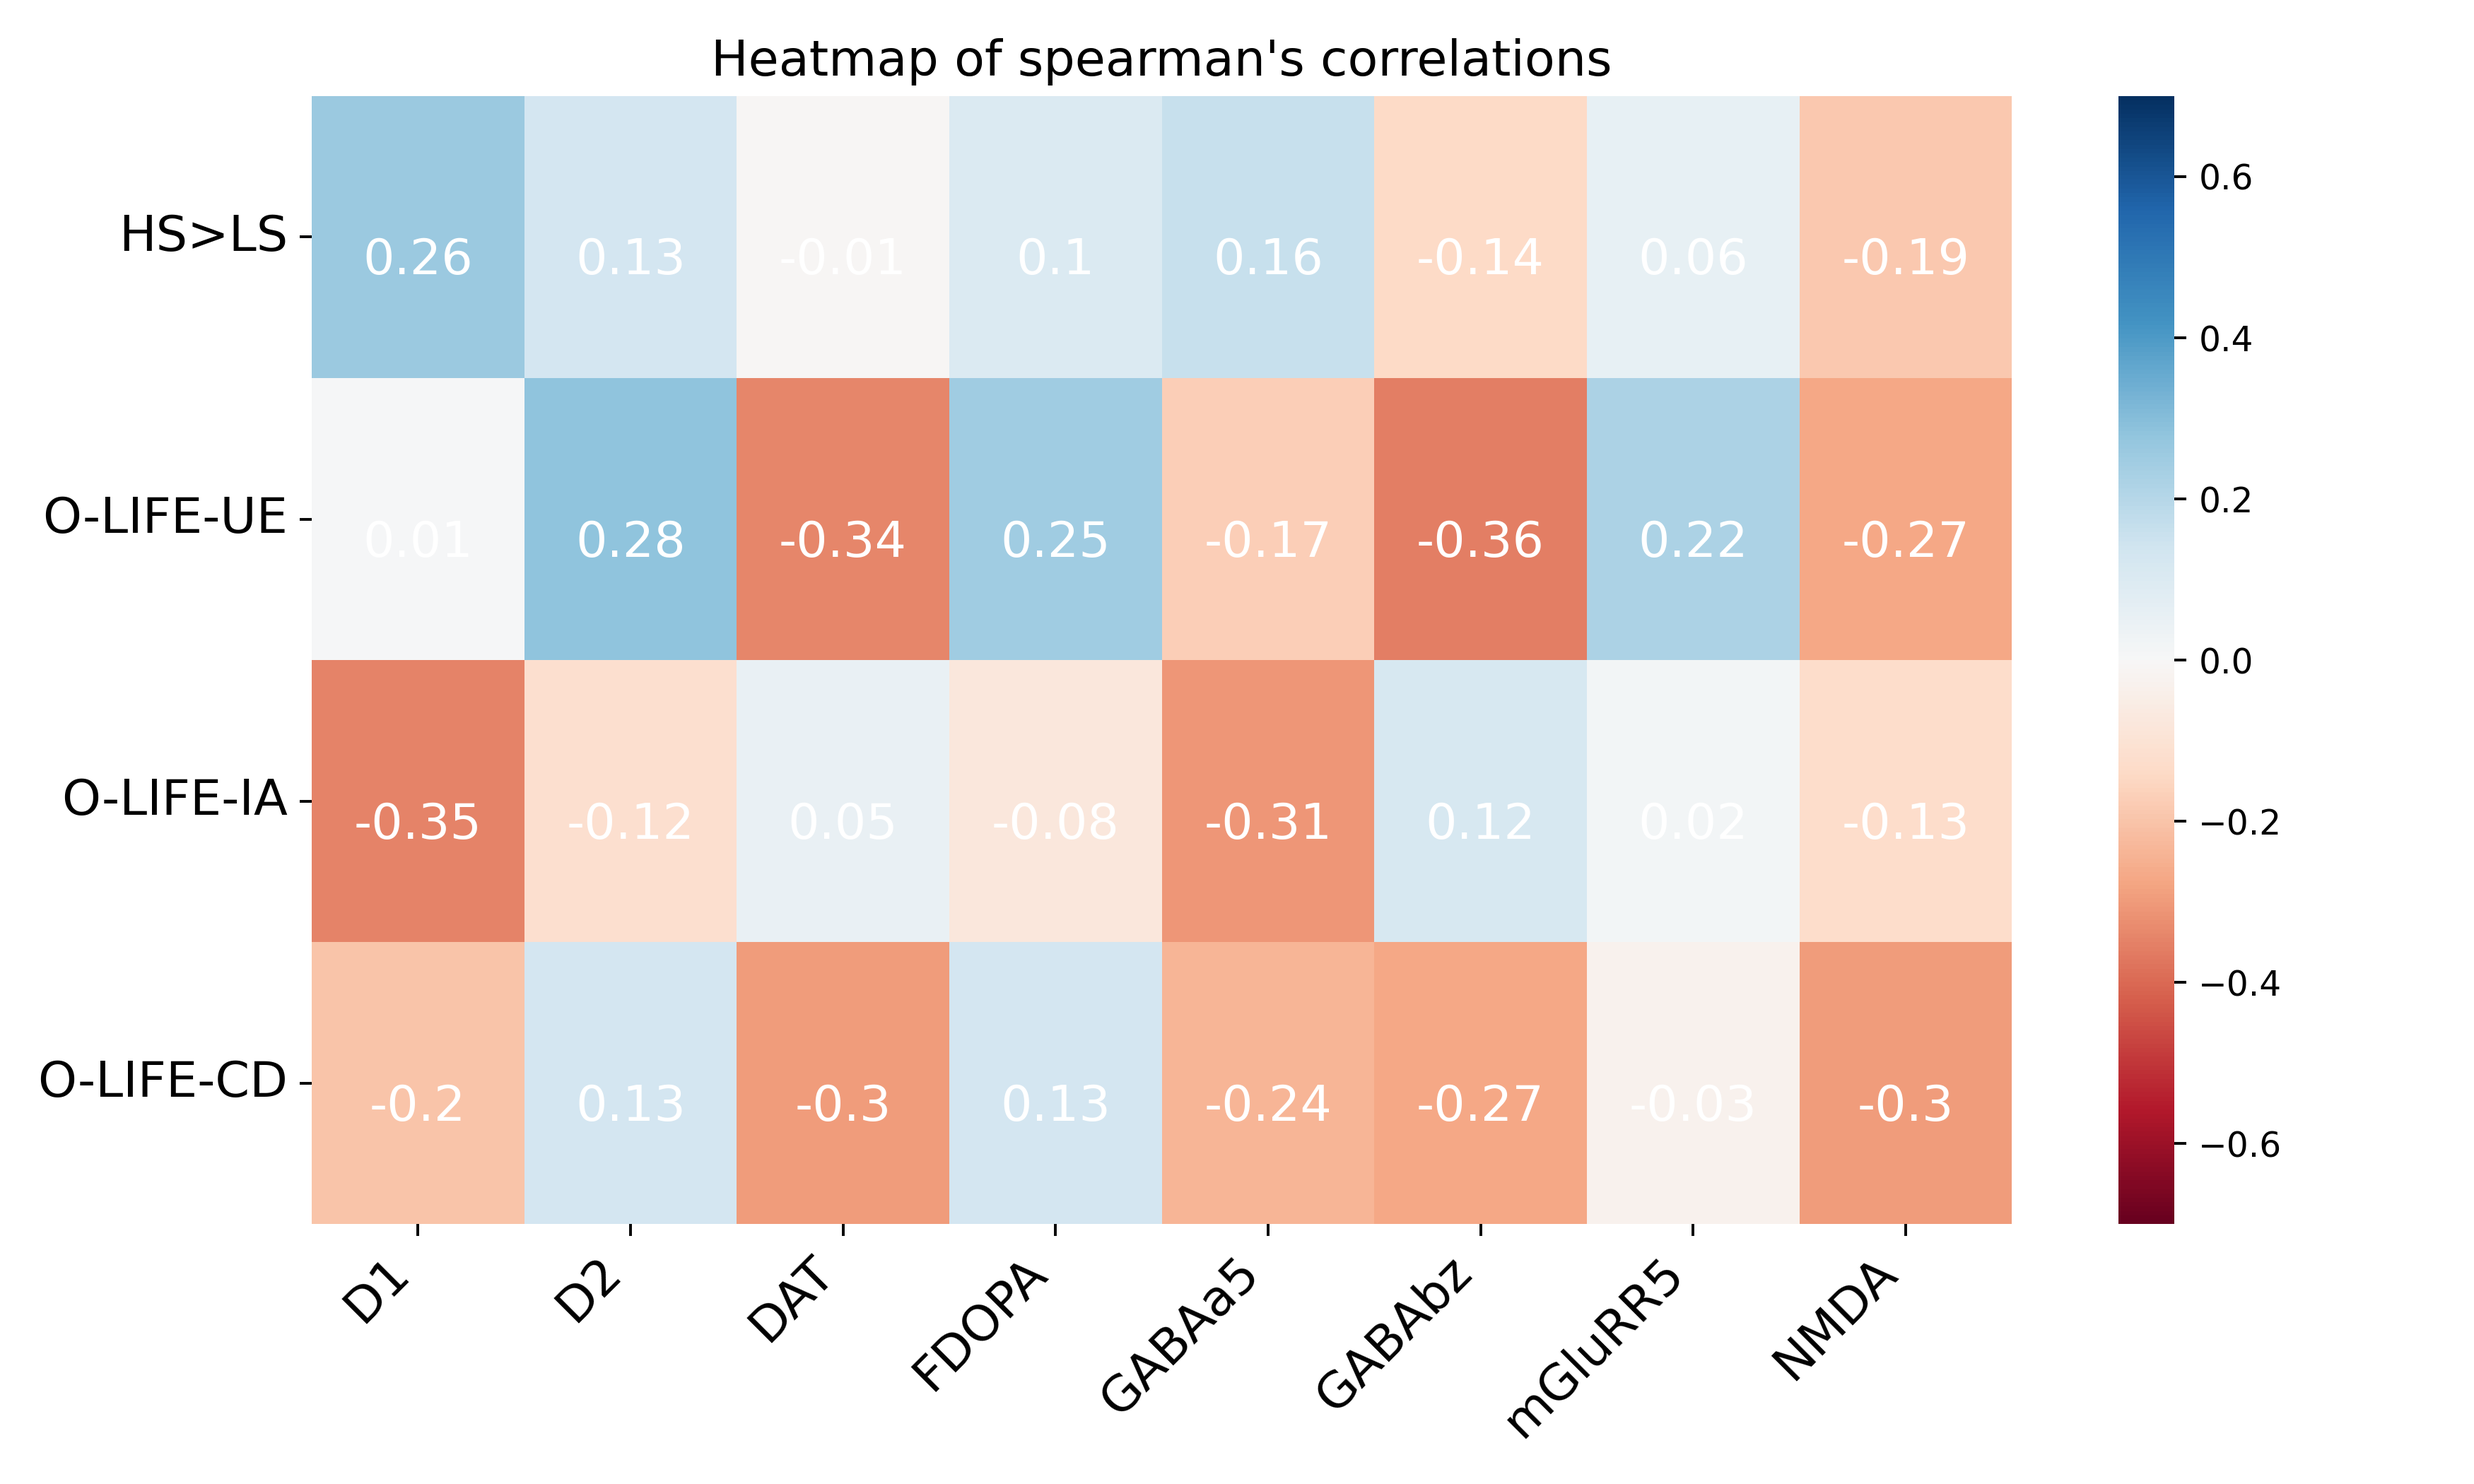
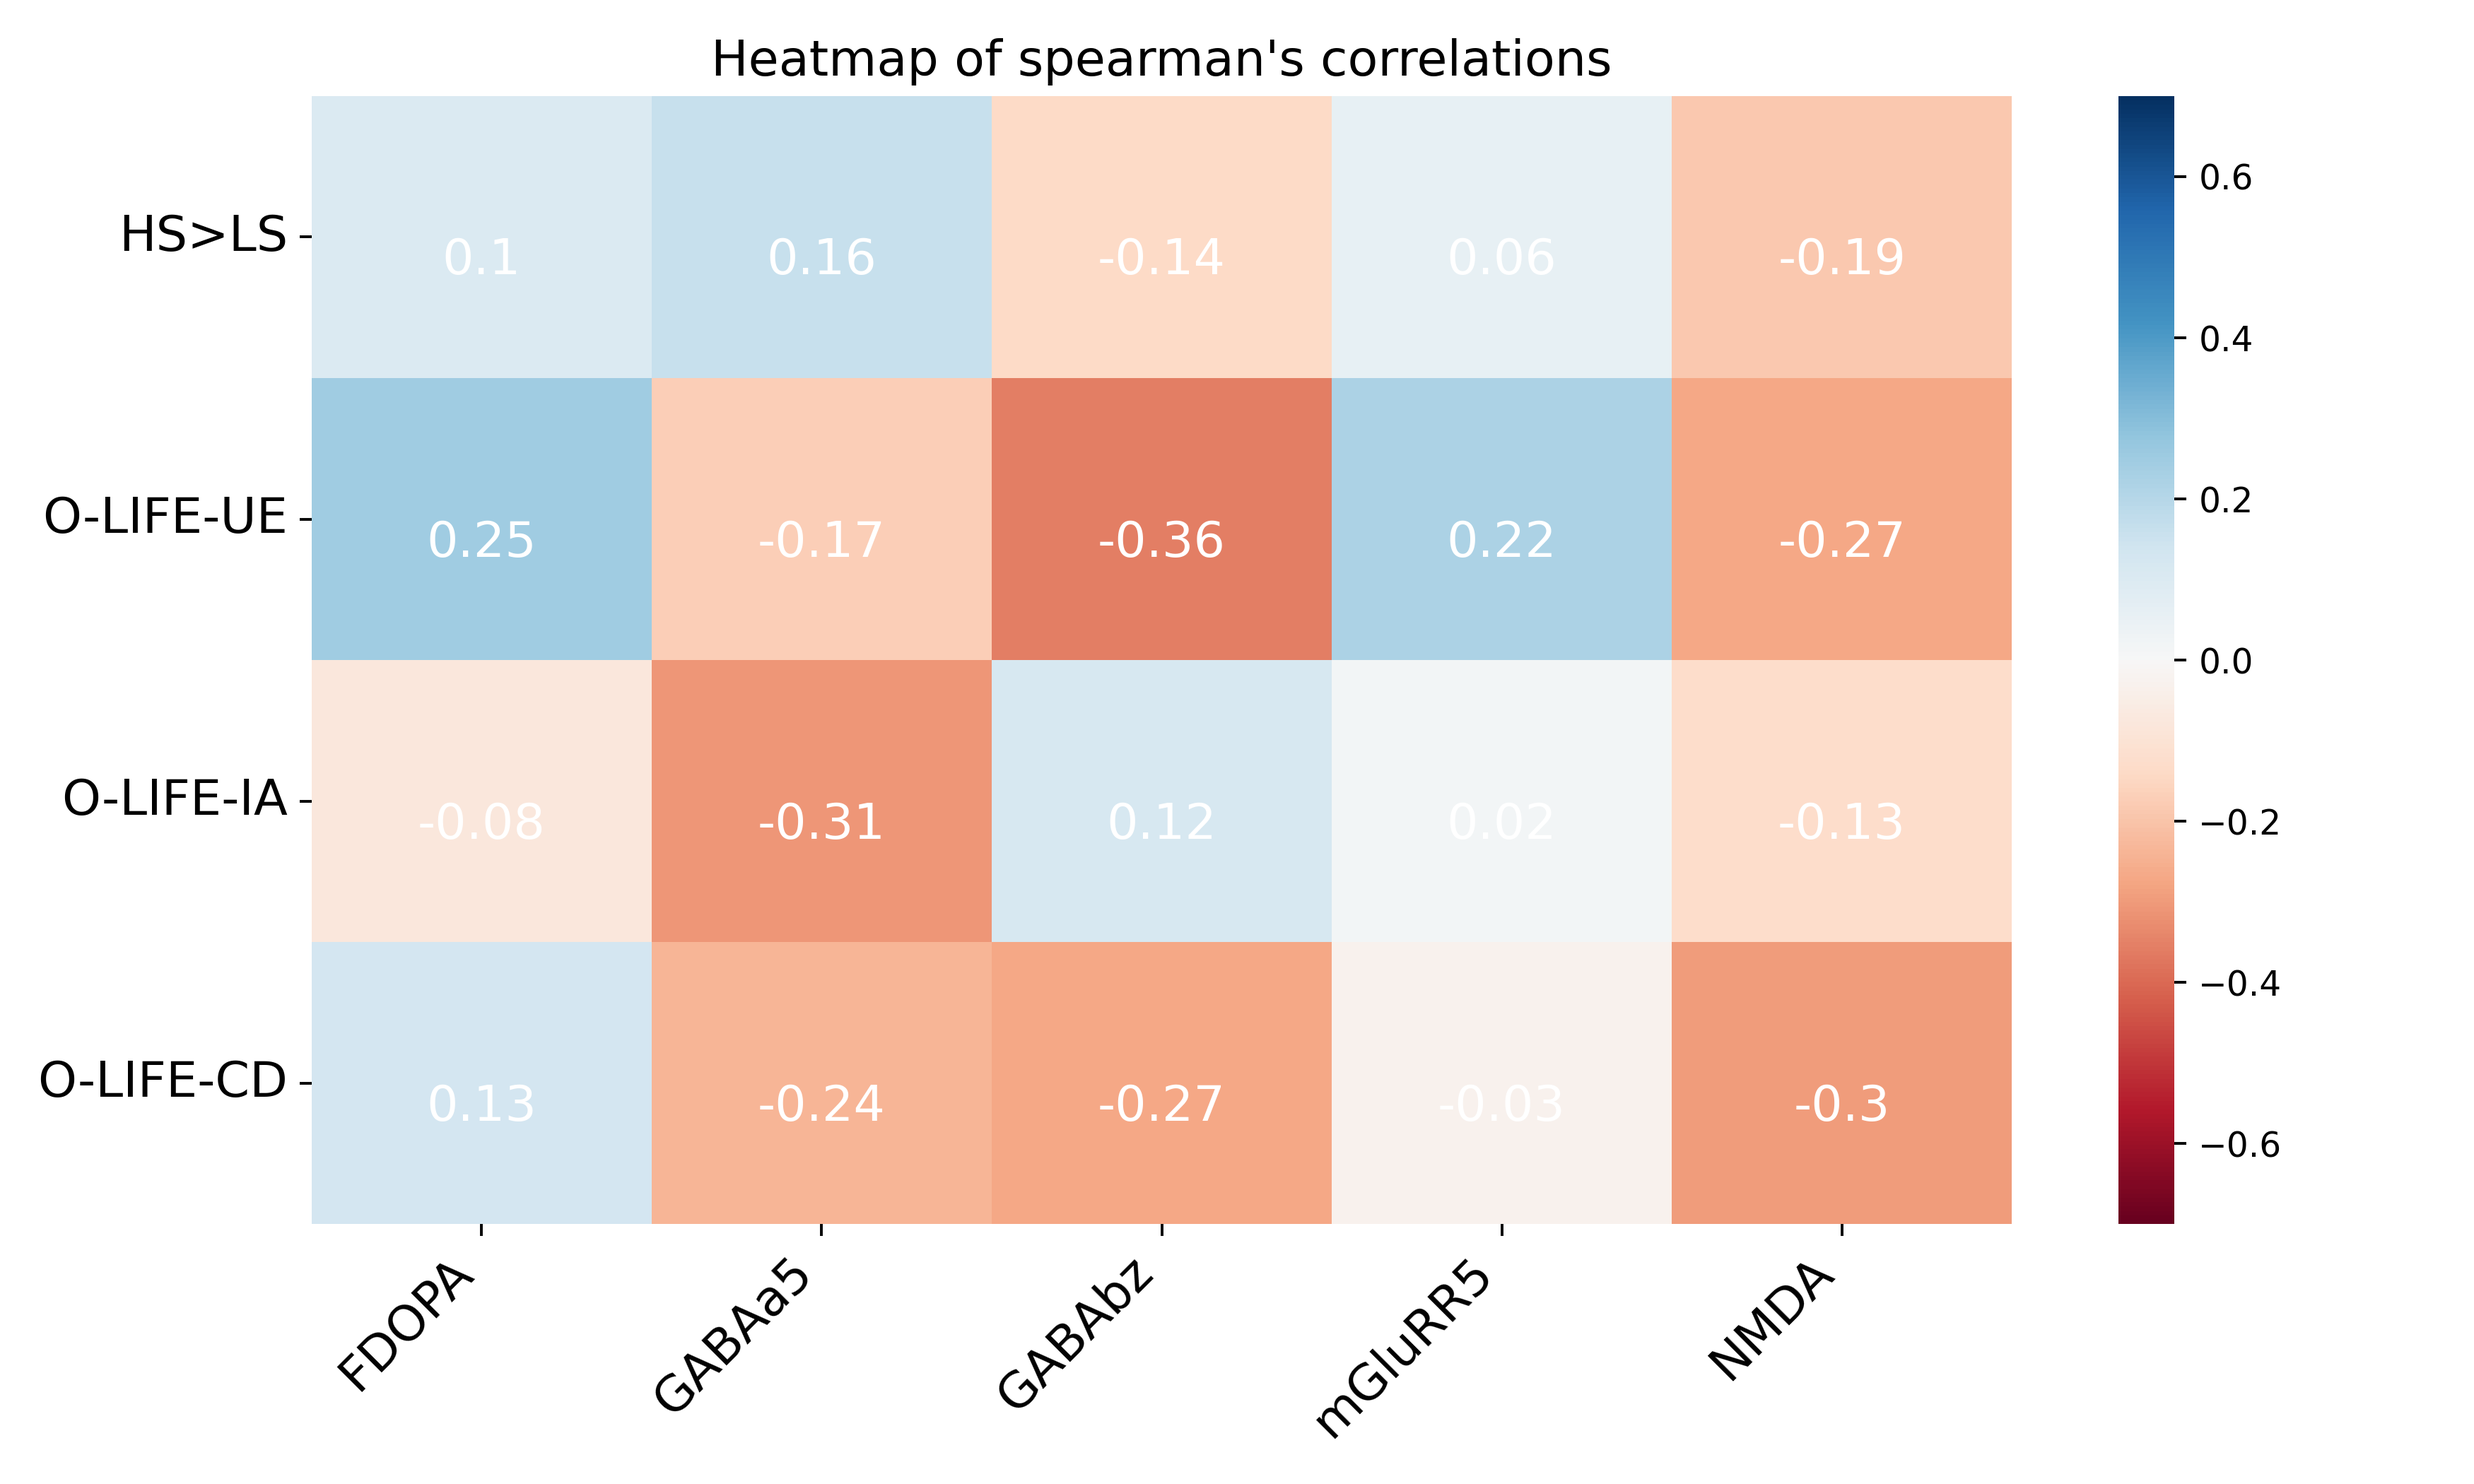
.

diff --git a/2_scripts/3_compare_images.py b/2_scripts/3_compare_images.py
@@ -12,9 +12,9 @@ nullpath=os.path.join(main_folder, '3_output', '3.2_nulls')
 outpath=os.path.join(main_folder, '3_output', '3.3_correlations')
 
 atlas_names = [ # names of receptor atlas files
-    'D1_sch23390_kaller2017', #D1
-    'D2_fallypride_jaworska2020', # D2
-    'DAT_fpcit_dukart2018', #DAT
+    # 'D1_sch23390_kaller2017', #D1
+    # 'D2_fallypride_jaworska2020', # D2
+    # 'DAT_fpcit_dukart2018', #DAT
     'FDOPA_fluorodopa_hc12_gomez', #FDOPA
     'GABAa5_Ro15_10hc_lukow', #GABAa5
     'GABAbz_flumazenil_norgaard2021', #GABAbz
@@ -67,9 +67,9 @@ for CBF_idx in range(len(CBF_parcellated_paths)):
         results['pval'].at[CBF_file_names[CBF_idx], atlas_names[atlas_idx]] = round(pval,4)
         # CHECK IF P VALUES ARE SIGNIFICANT
         if pval<=0.05:
-            results['sign?'].at[CBF_file_names[CBF_idx], atlas_names[atlas_idx]] = 'Y'
+            results['sign?'].at[CBF_file_names[CBF_idx], atlas_names[atlas_idx]] = True
         else:
-            results['sign?'].at[CBF_file_names[CBF_idx], atlas_names[atlas_idx]] = 'N'
+            results['sign?'].at[CBF_file_names[CBF_idx], atlas_names[atlas_idx]] = False
     # A nice output for a premium user experience xxx        
     print(f'Finished calculating correlations for {CBF_file_names[CBF_idx]}')
     time.sleep(0.1)

diff --git a/4_figures/1_heatmap.py b/4_figures/1_heatmap.py
@@ -21,9 +21,9 @@ CBF_files2 = [ # names of CBF files
 ]
 
 atlas_names = [ # names of receptor atlas files
-    'D1_sch23390_kaller2017', #D1
-    'D2_fallypride_jaworska2020', # D2
-    'DAT_fpcit_dukart2018', #DAT
+    # 'D1_sch23390_kaller2017', #D1
+    # 'D2_fallypride_jaworska2020', # D2
+    # 'DAT_fpcit_dukart2018', #DAT
     'FDOPA_fluorodopa_hc12_gomez', #FDOPA
     'GABAa5_Ro15_10hc_lukow', #GABAa5
     'GABAbz_flumazenil_norgaard2021', #GABAbz
